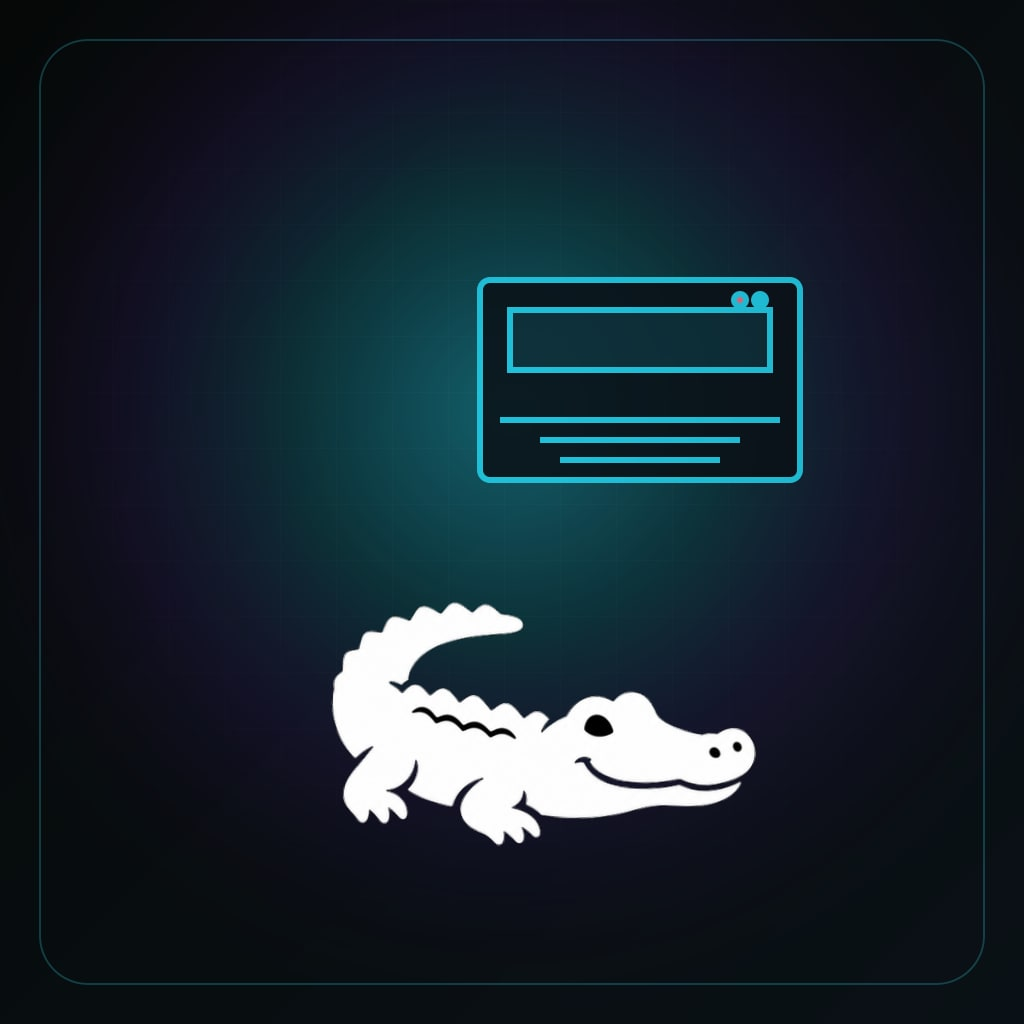
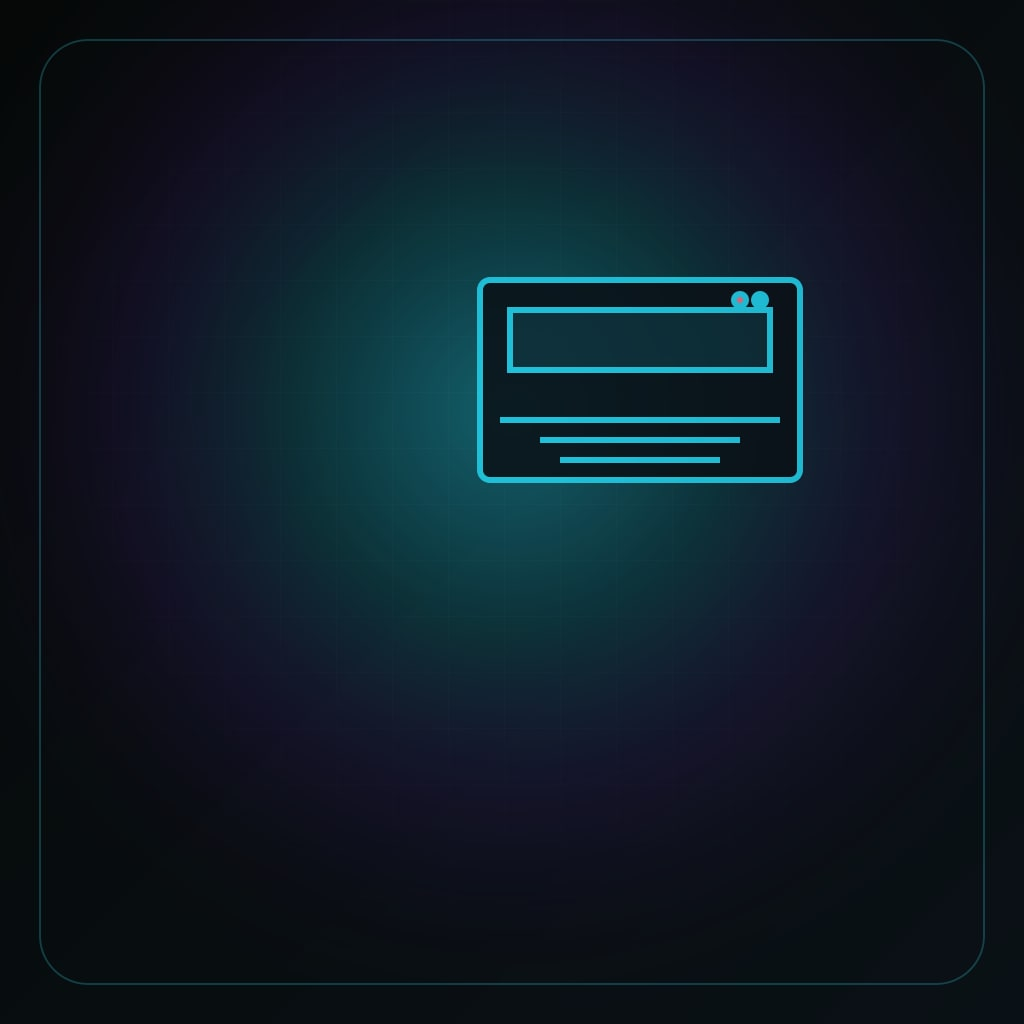
brocco v4.4: inference.sh terminal in hero + mascot-free cast dioramas
hero — inference.sh look layered onto current orbital layout:
- HeroTerminal (curl-block typing terminal, click-to-copy) added below
  the hero stats in the left column. Same component used in v2.10.
- Right column keeps the orbital ring + 9 agent dots + center mascot
  with idle bob and eye-blink. No streaming panels, no overlap.

cast — duplicate mascot removed:
- gen-cast-variants.mjs no longer composites the brocco mark onto
  each canvas. Only the per-agent prop (book + glasses, whiteboard +
  arrow, envelope, palette, bar chart, JSON terminal, copy machine,
  orchestra graph, browser window) sits on the dark + accent-tinted
  background.
- props upscaled (translate to canvas center + 1.6x) so each card has
  a clear, single visual.
- regenerated 9 jpgs at public/assets/cast/<slug>-v2.jpg. user will
  drop in real character art into the same paths later — site picks
  them up on next deploy.

build clean. all routes 200. private + public mirror in sync.

Changed region(s): [[0.3125, 0.5938, 0.75, 0.8438]]

diff --git a/components/hero-animated.tsx b/components/hero-animated.tsx
@@ -5,6 +5,7 @@ import Image from 'next/image';
 import { motion, useScroll, useTransform, useMotionValue, useSpring, useReducedMotion } from 'framer-motion';
 import { useEffect, useMemo, useRef } from 'react';
 import { ArrowRight, Download } from 'lucide-react';
+import { HeroTerminal } from './hero-terminal';
 
 /**
  * HeroAnimated — fully kinetic hero. Replaces the static spinning
@@ -190,6 +191,15 @@ export function HeroAnimated() {
               <span>no card</span>
               <span>·</span>
               <span>jsonl audit</span>
+            </motion.div>
+
+            <motion.div
+              initial={{ opacity: 0, y: 16 }}
+              animate={{ opacity: 1, y: 0 }}
+              transition={{ duration: 0.7, delay: 0.9, ease: [0.16, 1, 0.3, 1] }}
+              className="mt-10"
+            >
+              <HeroTerminal />
             </motion.div>
           </motion.div>
 
